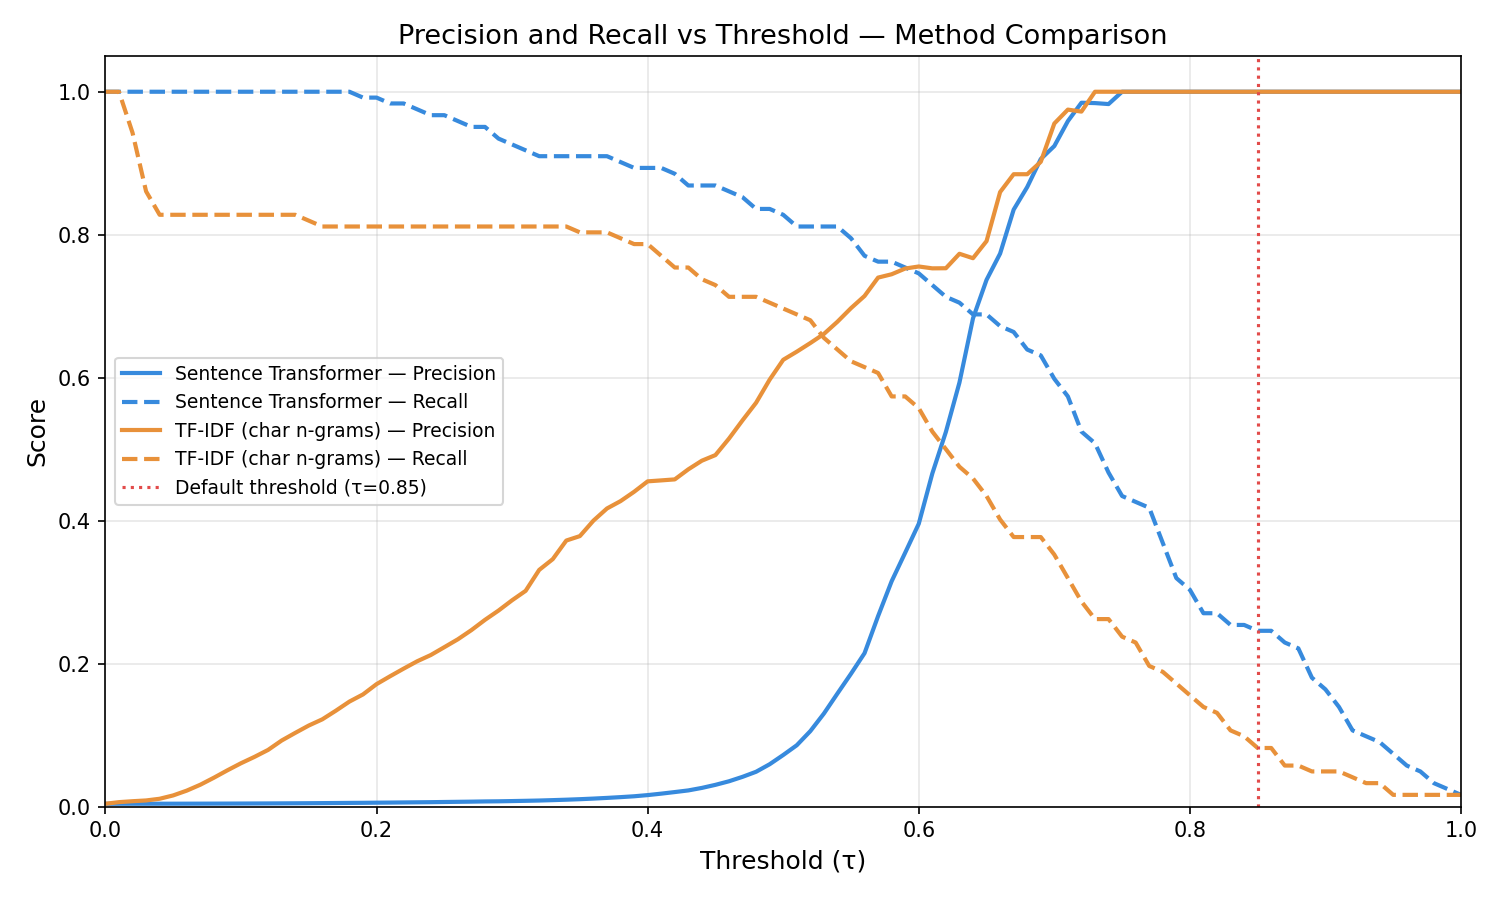
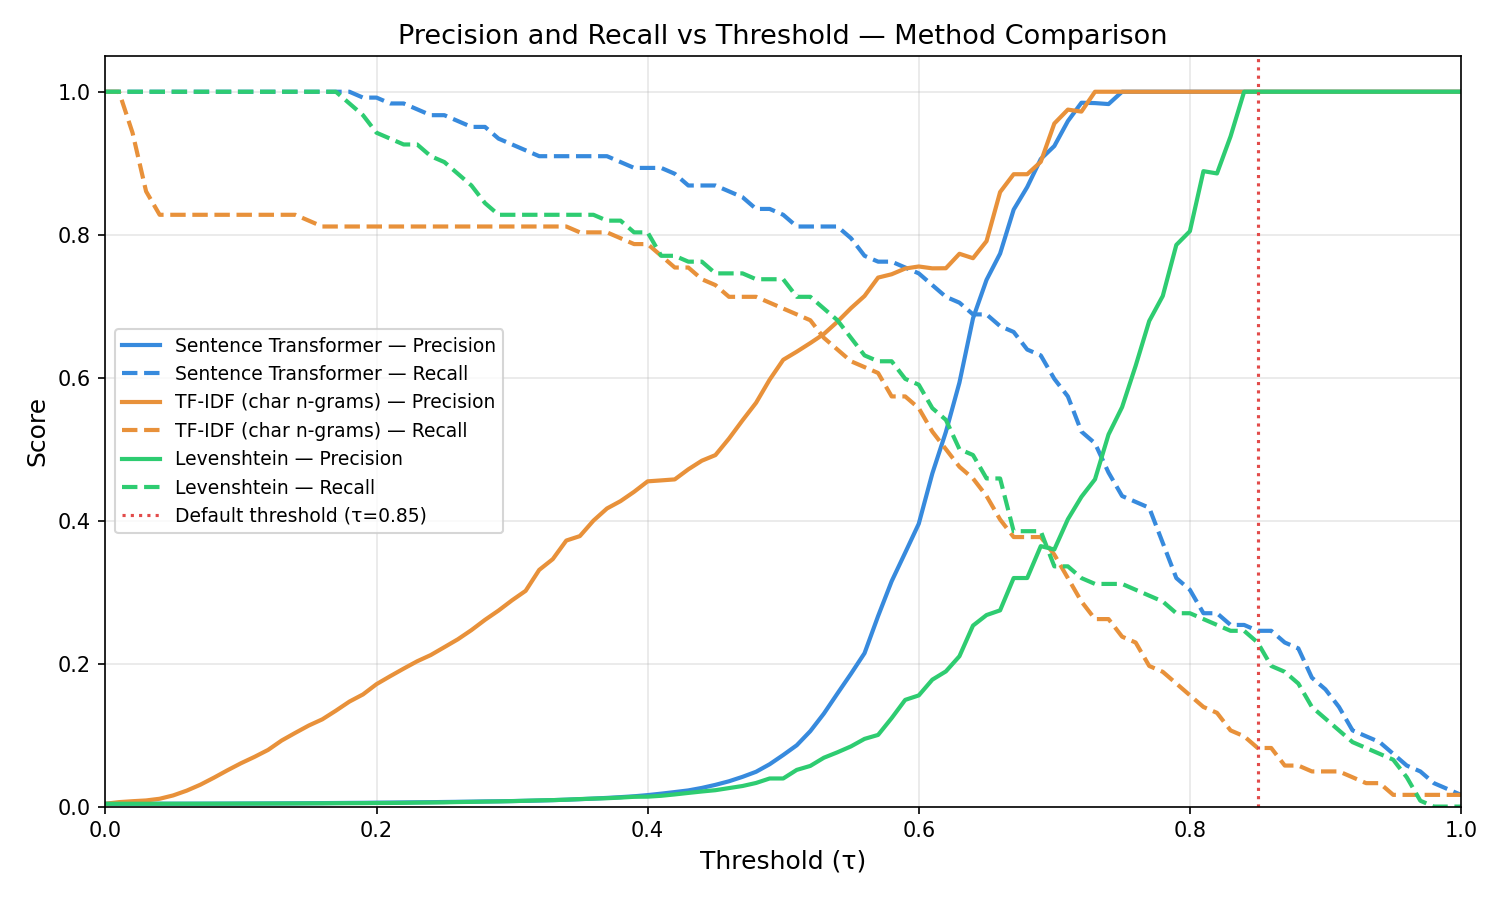
feate: add levenshtein baseline scoring and three-method compariosplot

diff --git a/scripts/run_evaluation.py b/scripts/run_evaluation.py
@@ -13,7 +13,7 @@ from itertools import combinations
 
 import matplotlib.pyplot as plt
 
-from supplier_cleaner.evaluate import (NamePair,score_pairs,score_pairs_tfidf,sweep_thresholds,)
+from supplier_cleaner.evaluate import (NamePair,score_pairs,score_pairs_tfidf,score_pairs_levenshtein,sweep_thresholds,)
 
 DEFAULT_THRESHOLD = 0.85
 
@@ -82,6 +82,7 @@ def plot_precision_recall(
     method_colours = {
         "Sentence Transformer": "#378ADD",
         "TF-IDF (char n-grams)": "#E8913A",
+        "Levenshtein": "#2ECC71",
     }
 
     fig, ax = plt.subplots(figsize=(10, 6))
@@ -158,16 +159,31 @@ if __name__ == "__main__":
     results_tfidf = sweep_thresholds(scored_tfidf)
     print("  Sweep complete")
 
+    # --- Levenshtein scoring ---
+    print("Scoring pairs with Levenshtein...")
+    scored_lev = score_pairs_levenshtein(pairs)
+    print("  Scoring complete")
+
+    print("Sweeping thresholds (Levenshtein)...")
+    results_lev = sweep_thresholds(scored_lev)
+    print("  Sweep complete")
+
     # --- Summary table ---
-    print(f"\n{'Threshold':>10} {'ST Prec':>10} {'ST Rec':>10} {'TFIDF Prec':>12} {'TFIDF Rec':>10}")
-    print("-" * 54)
-    for r_st, r_tfidf in zip(results_st, results_tfidf):
+    print(
+        f"\n{'Threshold':>10}"
+        f" {'ST Prec':>10} {'ST Rec':>10}"
+        f" {'TFIDF Prec':>12} {'TFIDF Rec':>10}"
+        f" {'Lev Prec':>10} {'Lev Rec':>10}"
+    )
+    print("-" * 74)
+    for r_st, r_tfidf, r_lev in zip(results_st, results_tfidf, results_lev):
         if 0.70 <= r_st.threshold <= 0.95:
             marker = " <--" if abs(r_st.threshold - DEFAULT_THRESHOLD) < 0.001 else ""
             print(
                 f"{r_st.threshold:>10.2f}"
                 f" {r_st.precision:>10.2f} {r_st.recall:>10.2f}"
                 f" {r_tfidf.precision:>12.2f} {r_tfidf.recall:>10.2f}"
+                f" {r_lev.precision:>10.2f} {r_lev.recall:>10.2f}"
                 f"{marker}"
             )
 
@@ -175,5 +191,6 @@ if __name__ == "__main__":
     results_by_method = {
         "Sentence Transformer": results_st,
         "TF-IDF (char n-grams)": results_tfidf,
+        "Levenshtein": results_lev,
     }
     plot_precision_recall(results_by_method, plot_path, DEFAULT_THRESHOLD)

diff --git a/tests/test_evaluate.py b/tests/test_evaluate.py
@@ -10,7 +10,7 @@ can be verified without running the embedding model.
 
 import pytest
 
-from supplier_cleaner.evaluate import NamePair, precision_recall_at_threshold, score_pairs_tfidf
+from supplier_cleaner.evaluate import NamePair, precision_recall_at_threshold, score_pairs_tfidf, score_pairs_levenshtein
 
 
 def make_scored_pairs(similarities: list[float], matches: list[bool]):
@@ -111,5 +111,28 @@ def test_tfidf_typo_scores_high():
     """A minor typo should still produce a high similarity score."""
     pairs = [NamePair(name_a="accenture consulting", name_b="accentre consulting", match=True)]
     scored = score_pairs_tfidf(pairs)
+    _, similarity = scored[0]
+    assert similarity > 0.7
+
+def test_levenshtein_identical_names_score_one():
+    """Identical names should have a Levenshtein similarity of 1.0."""
+    pairs = [NamePair(name_a="accenture consulting", name_b="accenture consulting", match=True)]
+    scored = score_pairs_levenshtein(pairs)
+    _, similarity = scored[0]
+    assert similarity == pytest.approx(1.0)
+
+
+def test_levenshtein_unrelated_names_score_low():
+    """Completely unrelated names should have low similarity."""
+    pairs = [NamePair(name_a="accenture consulting", name_b="woolworths group", match=False)]
+    scored = score_pairs_levenshtein(pairs)
+    _, similarity = scored[0]
+    assert similarity < 0.3
+
+
+def test_levenshtein_typo_scores_high():
+    """A minor typo should still produce a high similarity score."""
+    pairs = [NamePair(name_a="accenture consulting", name_b="accentre consulting", match=True)]
+    scored = score_pairs_levenshtein(pairs)
     _, similarity = scored[0]
     assert similarity > 0.7

diff --git a/src/supplier_cleaner/evaluate.py b/src/supplier_cleaner/evaluate.py
@@ -10,7 +10,7 @@ Provides functions to:
 """
 
 from dataclasses import dataclass
-
+from rapidfuzz import fuzz
 from sklearn.feature_extraction.text import TfidfVectorizer
 from sklearn.metrics.pairwise import cosine_similarity
 import numpy as np
@@ -118,6 +118,34 @@ def score_pairs_tfidf(
         scored.append((pair, similarity))
 
     return scored
+
+def score_pairs_levenshtein(
+    pairs: list[NamePair],
+) -> list[tuple[NamePair, float]]:
+    """Compute normalised Levenshtein similarity for each name pair.
+
+    Uses rapidfuzz's ratio function, which returns a value from 0 to 100
+    representing the normalised edit distance similarity. This is divided
+    by 100 to produce a score in [0, 1].
+
+    This is the simplest possible string similarity method — it counts
+    the minimum number of single-character edits (insertions, deletions,
+    substitutions) needed to transform one string into the other, then
+    normalises by string length.
+
+    Args:
+        pairs: List of labelled NamePair objects.
+
+    Returns:
+        List of (NamePair, similarity_score) tuples.
+    """
+    scored = []
+    for pair in pairs:
+        similarity = fuzz.ratio(pair.name_a, pair.name_b) / 100
+        scored.append((pair, similarity))
+
+    return scored
+
 def precision_recall_at_threshold(
     scored_pairs: list[tuple[NamePair, float]],
     threshold: float,
